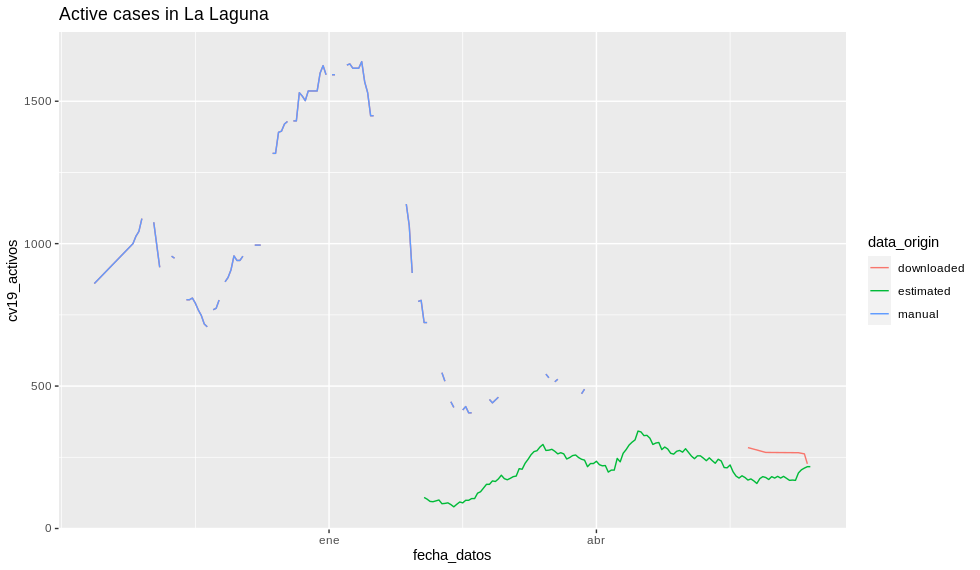
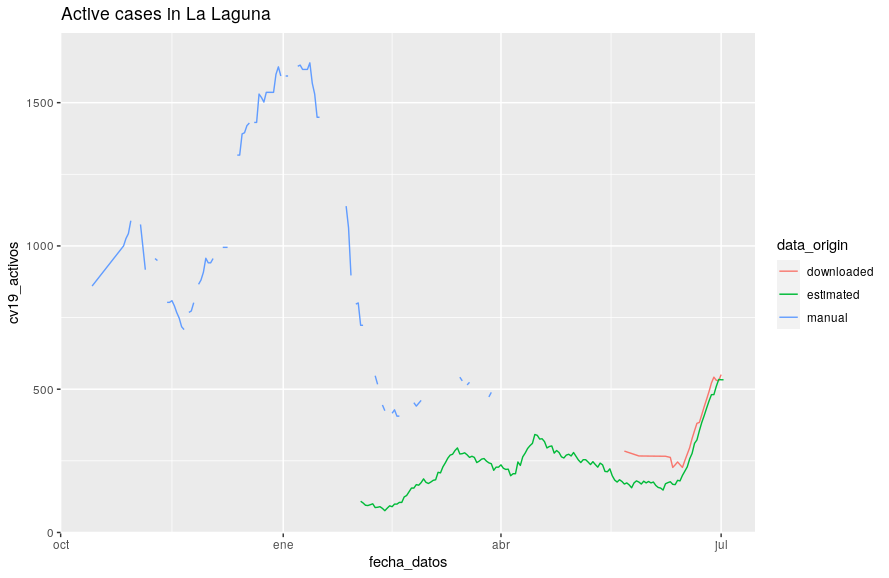
Created a better exploration and description of the data sources mismatch.

diff --git a/mismatch.md b/mismatch.md
@@ -1,18 +1,19 @@
----
-title: "Discrepancia entre casos activos estimados y publicados"
-output: github_document
----
+Discrepancia entre casos activos estimados y publicados
+================
 
-```{r setup, include=FALSE, warning=FALSE}
-knitr::opts_chunk$set(echo = TRUE)
-```
+Se han obtenido los casos activos de COVID-19 por día y municipio a
+partir de datos desagregados publicados por [Canarias Datos
+Abiertos](https://datos.canarias.es/catalogos/general/dataset/datos-epidemiologicos-covid-19).
+Sin embargo para algunos municipios estos no coinciden con los datos
+agregados proporcionados por la misma fuente.
 
-Se han obtenido los casos activos de COVID-19 por día y municipio a partir de datos desagregados publicados por [Canarias Datos Abiertos](https://datos.canarias.es/catalogos/general/dataset/datos-epidemiologicos-covid-19). Sin embargo para algunos municipios estos no coinciden con los datos agregados proporcionados por la misma fuente.
-
-A continuación se desarrolla el procesado de los datos para obtener los datos agregados a partir de los desagregados y se muestra la comparación entre ambos conjuntos en distintos gráficos.
+A continuación se desarrolla el procesado de los datos para obtener los
+datos agregados a partir de los desagregados y se muestra la comparación
+entre ambos conjuntos en distintos gráficos.
 
 ## Carga de datos
-```{r load, message=FALSE, warning=FALSE}
+
+``` r
 library(tidyverse)
 library(lubridate)
 
@@ -27,11 +28,20 @@ data_ungrouped$fecha_datos <- dmy(data_ungrouped$fecha_datos)
 ```
 
 ## Estimación de casos activos agregados por municipio y fecha
-El conjunto de datos desagregados consiste en una fila por paciente que incluye entre otros atributos municipio al que ha sido asignado el caso, fecha de detección del caso, fecha de recuperación y fecha de fallecimiento.
 
-Ya que estos datos desagregados solo están disponibles a partir del 1/1/2021, no se incluyen los casos iniciados antes de esta fecha aunque algunos continuen activos al terminar el año 2020. A fin de solventar este problema, y dado que la COVID-19 se resuelve casi siempre en un plazo inferior a un mes, de los datos agregados generados se excluye el mes de enero.
+El conjunto de datos desagregados consiste en una fila por paciente que
+incluye entre otros atributos municipio al que ha sido asignado el caso,
+fecha de detección del caso, fecha de recuperación y fecha de
+fallecimiento.
 
-```{r estimate, message=FALSE, warning=FALSE}
+Ya que estos datos desagregados solo están disponibles a partir del
+1/1/2021, no se incluyen los casos iniciados antes de esta fecha aunque
+algunos continuen activos al terminar el año 2020. A fin de solventar
+este problema, y dado que la COVID-19 se resuelve casi siempre en un
+plazo inferior a un mes, de los datos agregados generados se excluye el
+mes de enero.
+
+``` r
 # Create dataframe with metadata
 data_grouped %>%
   group_by(municipio, isla) %>%
@@ -98,23 +108,37 @@ data_estimated %>%
   rename(cv19_activos=n, fecha_datos=fecha) %>%
   filter(fecha_datos>dmy("1/2/2021")) -> data_estimated
 ```
+
 ## Fusión de los datos
+
 Contamos con tres fuentes para los mismos datos.
 
-Por un lado tenemos un conjunto de datos **recolectados de forma manual** desde [el dashboard de Grafcan](https://grafcan1.maps.arcgis.com/apps/opsdashboard/index.html#/156eddd4d6fa4ff1987468d1fd70efb6). Estos datos incluyen únicamente el municipio de La Laguna y la isla de La Palma (casos activos totales de la isla) entre octubre de 2020 y abril de 2021.
+Por un lado tenemos un conjunto de datos **recolectados de forma
+manual** desde [el dashboard de
+Grafcan](https://grafcan1.maps.arcgis.com/apps/opsdashboard/index.html#/156eddd4d6fa4ff1987468d1fd70efb6).
+Estos datos incluyen únicamente el municipio de La Laguna y la isla de
+La Palma (casos activos totales de la isla) entre octubre de 2020 y
+abril de 2021.
 
-Contamos también con datos **agregados descargados** directamente desde Canarias Datos Abiertos para todos los municipios desde el 22 de mayo de 2021 en adelante, si bien durante las primeras semanas no contamos con observaciones para todos los días.
+Contamos también con datos **agregados descargados** directamente desde
+Canarias Datos Abiertos para todos los municipios desde el 22 de mayo de
+2021 en adelante, si bien durante las primeras semanas no contamos con
+observaciones para todos los días.
 
-El tercer conjunto de datos a fusionar será el de los casos activos **agregados que hemos estimado a partir de los valores desagregados**.
+El tercer conjunto de datos a fusionar será el de los casos activos
+**agregados que hemos estimado a partir de los valores desagregados**.
 
-```{r merge, message=FALSE, warning=FALSE}
+``` r
 data_all <- bind_rows(list(downloaded=data_grouped, estimated=data_estimated,
                            manual=data_manual), .id="data_origin")
 ```
 
 ## Comprobación de duplicados
-Comprobamos ahora que no existen datos duplicados para cada combinación de fecha, municipio y origen de los datos.
-```{r check_duplicates, message=FALSE, warning=FALSE}
+
+Comprobamos ahora que no existen datos duplicados para cada combinación
+de fecha, municipio y origen de los datos.
+
+``` r
 # Check for duplicated data
 data_all %>%
   group_by(fecha_datos, municipio, data_origin) %>%
@@ -122,9 +146,16 @@ data_all %>%
   filter(n>1)
 ```
 
+    ## # A tibble: 0 x 4
+    ## # Groups:   fecha_datos, municipio, data_origin [0]
+    ## # … with 4 variables: fecha_datos <date>, municipio <fct>, data_origin <chr>,
+    ## #   n <int>
+
 ## Agregación de datos insulares
+
 A continuación se generan datos agregados a nivel de isla.
-```{r isla-ALL, message=FALSE, warning=FALSE}
+
+``` r
 data_all %>%
         filter(!str_detect(municipio, "- ALL")) %>%
         filter(data_origin!="manual") %>%
@@ -142,10 +173,15 @@ data_all <- bind_rows(data_all, data_isla_ALL)
 data_all$isla <- factor(data_all$isla)
 data_all$municipio <- factor(data_all$municipio)
 ```
-## Generación de gráficos comparativos
-A continuación podemos comparar los datos de las distintas fuentes para diferentes territorios. Podemos ver grandes diferencias para muchos de ellos, sin embargo todos parecen converger a partir de mediados de junio de 2021.
 
-```{r plot_function, message=FALSE, warning=FALSE}
+## Generación de gráficos comparativos
+
+A continuación podemos comparar los datos de las distintas fuentes para
+diferentes territorios. Podemos ver grandes diferencias para muchos de
+ellos, sin embargo todos parecen converger a partir de mediados de junio
+de 2021.
+
+``` r
 plot_municipio <- function(municipio_name){
   data_all %>%
   filter(as.character(municipio)==municipio_name) %>%
@@ -154,24 +190,26 @@ plot_municipio <- function(municipio_name){
 }
 ```
 
+    ## Warning: Removed 5 row(s) containing missing values (geom_path).
 
-```{r plots, echo=FALSE}
-plot_municipio("La Laguna")
-plot_municipio("Santa Cruz de Tenerife")
-plot_municipio("Las Palmas de Gran Canaria")
-plot_municipio("LA PALMA - ALL")
-plot_municipio("TENERIFE - ALL")
-plot_municipio("GRAN CANARIA - ALL")
-plot_municipio("LANZAROTE - ALL")
-plot_municipio("FUERTEVENTURA - ALL")
-plot_municipio("LA GOMERA - ALL")
-plot_municipio("EL HIERRO - ALL")
-```
+![](mismatch_files/figure-gfm/plots-1.png)<!-- -->![](mismatch_files/figure-gfm/plots-2.png)<!-- -->![](mismatch_files/figure-gfm/plots-3.png)<!-- -->
+
+    ## Warning: Removed 4 row(s) containing missing values (geom_path).
+
+![](mismatch_files/figure-gfm/plots-4.png)<!-- -->![](mismatch_files/figure-gfm/plots-5.png)<!-- -->![](mismatch_files/figure-gfm/plots-6.png)<!-- -->![](mismatch_files/figure-gfm/plots-7.png)<!-- -->![](mismatch_files/figure-gfm/plots-8.png)<!-- -->![](mismatch_files/figure-gfm/plots-9.png)<!-- -->![](mismatch_files/figure-gfm/plots-10.png)<!-- -->
 
 ## Conclusiones
-Dado que no todos los territorios presentan incongruencia entre las fuentes de datos y que a partir de mediados de junio todos ellos convergen, parece razonable descartar un error en nuestro cálculo de valores agregados.
 
-Queda sin embargo sin aclarar el origen de esta diferencia entre las distintas fuentes.
+Dado que no todos los territorios presentan incongruencia entre las
+fuentes de datos y que a partir de mediados de junio todos ellos
+convergen, parece razonable descartar un error en nuestro cálculo de
+valores agregados.
+
+Queda sin embargo sin aclarar el origen de esta diferencia entre las
+distintas fuentes.
 
 ## Trabajo futuro
-Podría ser interesante calcular la diferencia entre las distintas fuentes de datos de forma cuantitativa, por ejemplo a través de la suma de errores cuadrados.
+
+Podría ser interesante calcular la diferencia entre las distintas
+fuentes de datos de forma cuantitativa, por ejemplo a través de la suma
+de errores cuadrados.

diff --git a/Readme.md b/Readme.md
@@ -12,16 +12,15 @@ Daily active cases in the original dataset from Canarias Datos Abiertos doesn't 
 ## Estimated daily active cases
 A history of old daily active cases has been estimated from [individual cases](https://datos.canarias.es/catalogos/general/dataset/datos-epidemiologicos-covid-19/resource/3b5b2d84-fe9d-42eb-91eb-54f0cb3cb4cc) in order to get full data, at least from February 2021 onwards.
 
-**This data remains incongruent with values from the daily active cases dataset.**
+This data has a mismatch with values from the daily active cases dataset for data before june 2021.
 
 ![](incongruence.png)
 
 We can see the mismatch between the three datasets, in this case about "La Laguna" location.  
 On blue there is data manually collected from the Grafcan dashboard. On red data about total active cases per municipio, downloaded from Canarias Datos Abiertos. The green line is the same measure, but in this case obtained from the non-agregated cases dataset from Canarias Datos Abiertos.
 
-There may be a bug in the code (probably on `estimate_active_cases.R`) or a misunderstanding about the measure. Maybe even a mistake on the original data.
+This topic is covered in more depth in [this document](https://github.com/jueves/covid_compara/blob/main/mismatch.md)
 
 ## To do
-* Solve incongruence between estimated active cases and reported active cases.
 * Integrate values before May 23rd 2021.
 * Add option to plot averages of the last 7 days.
